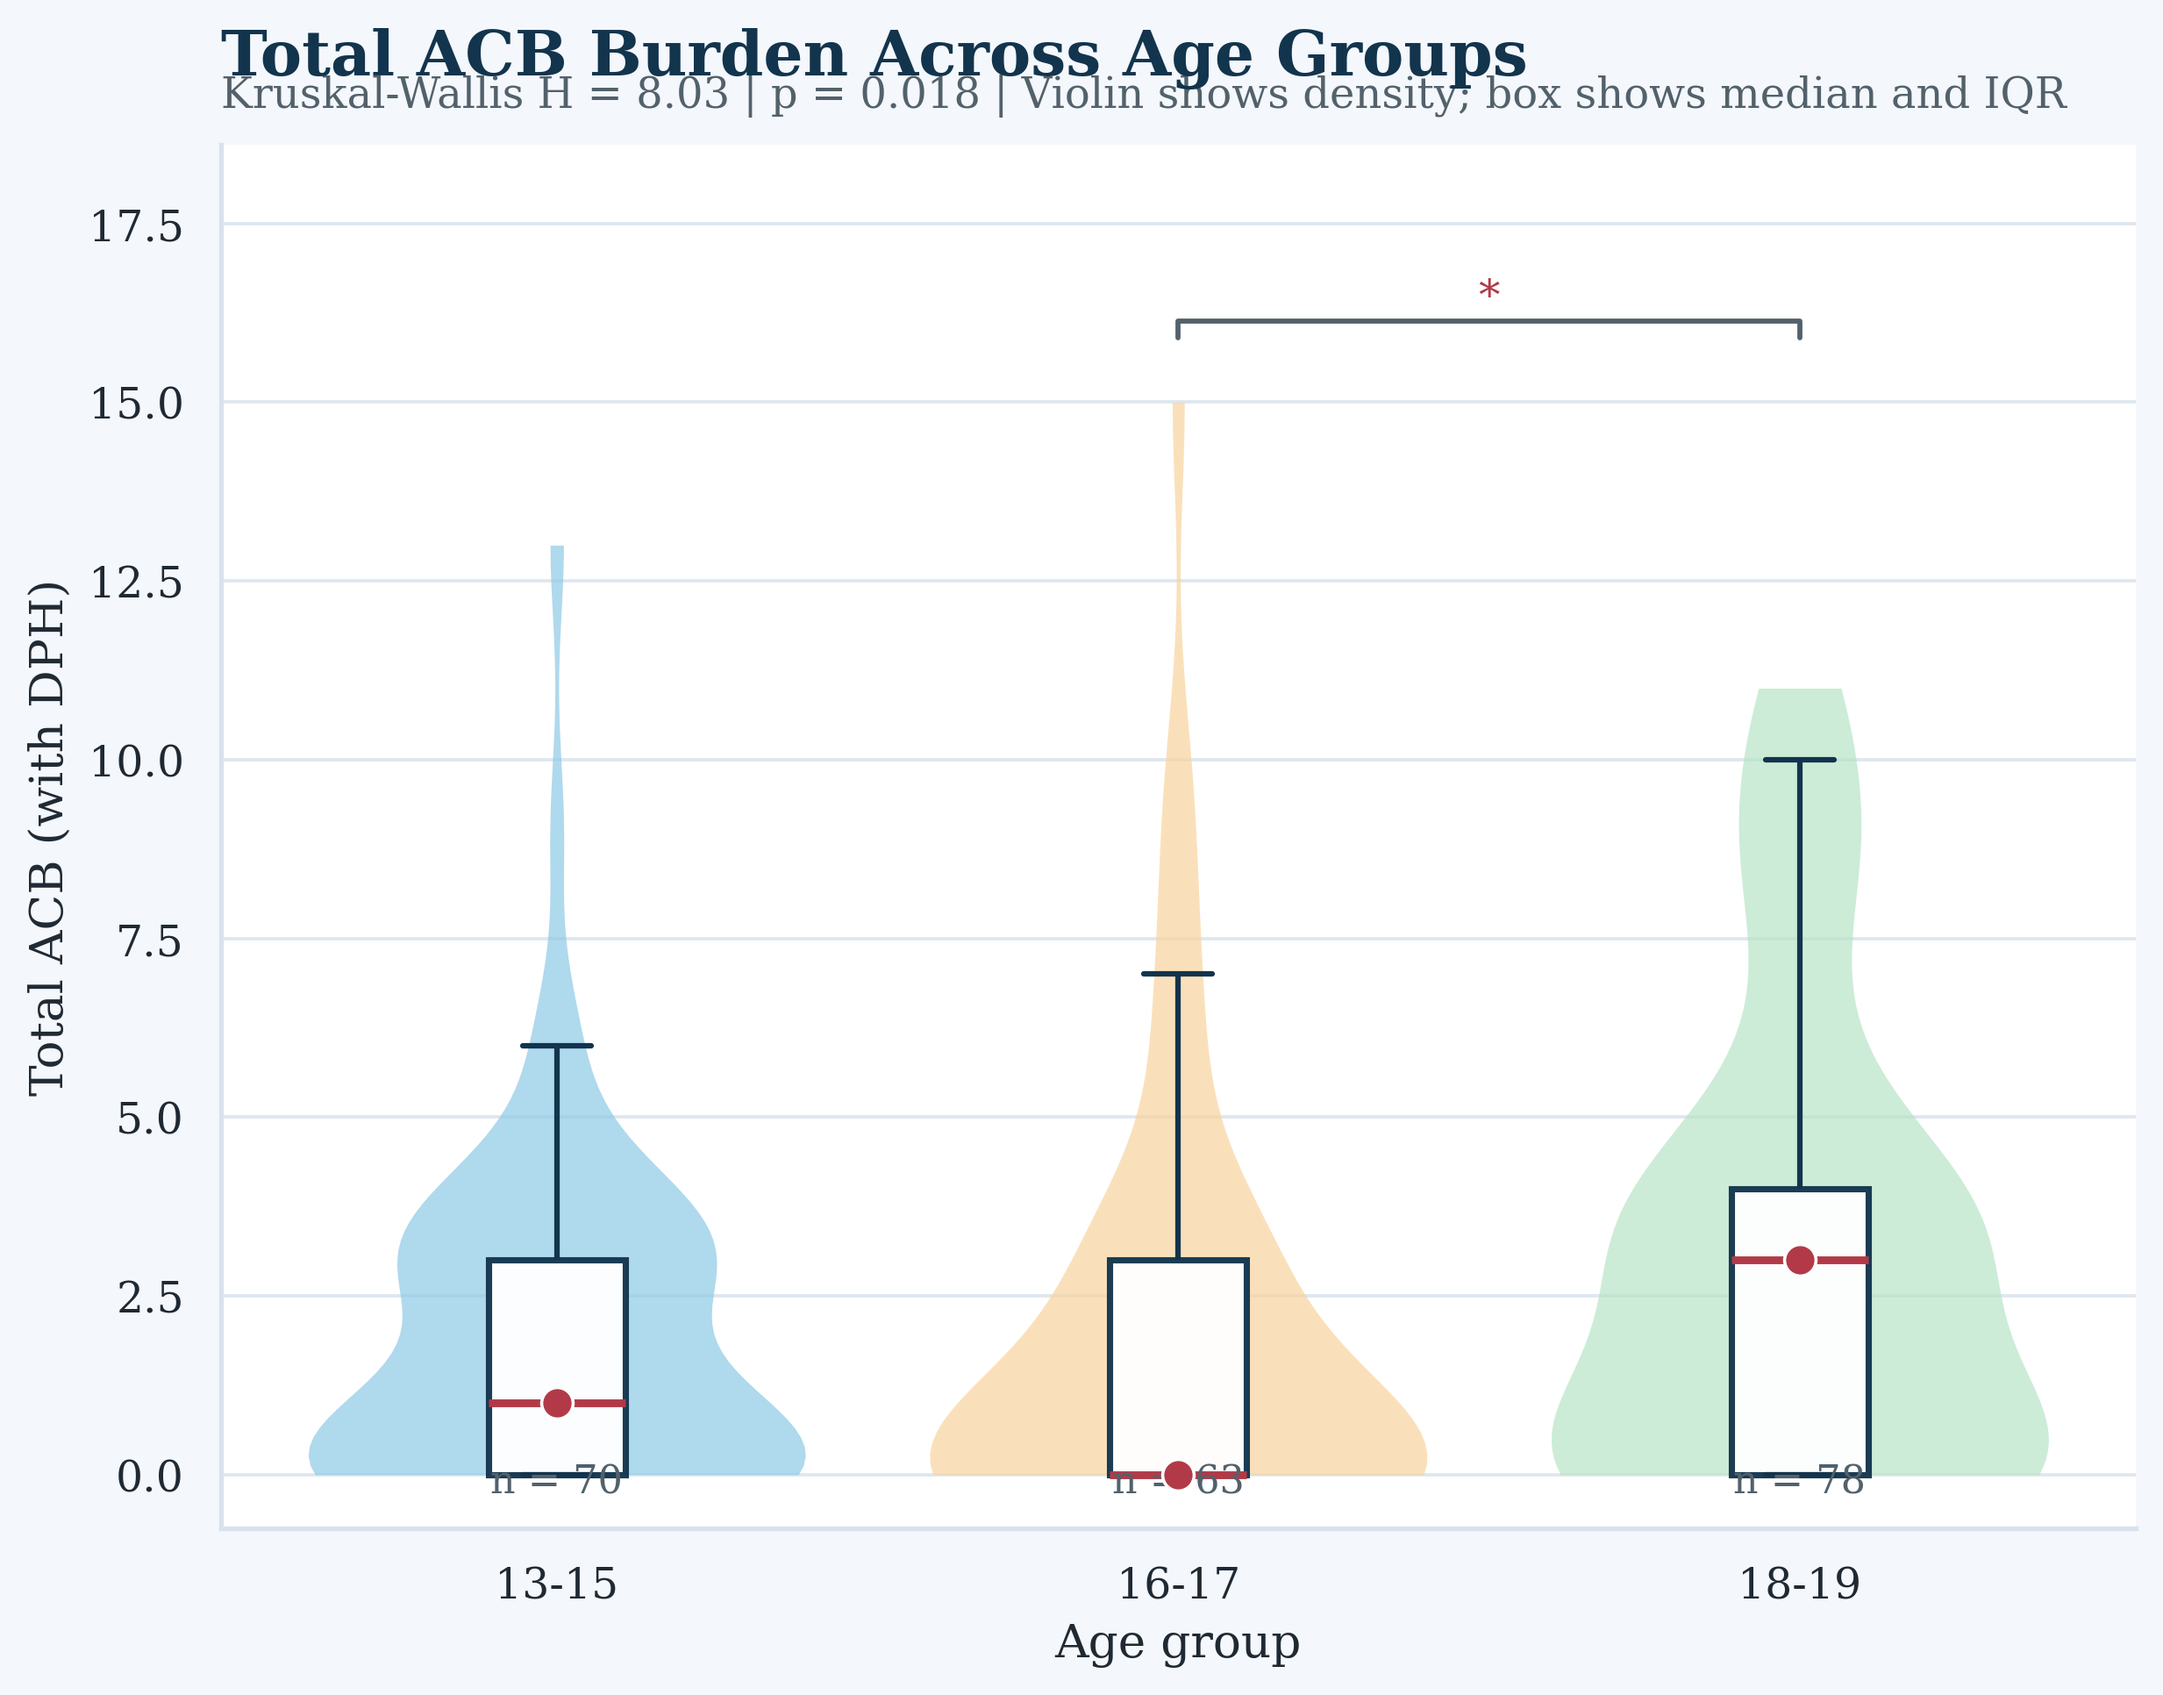
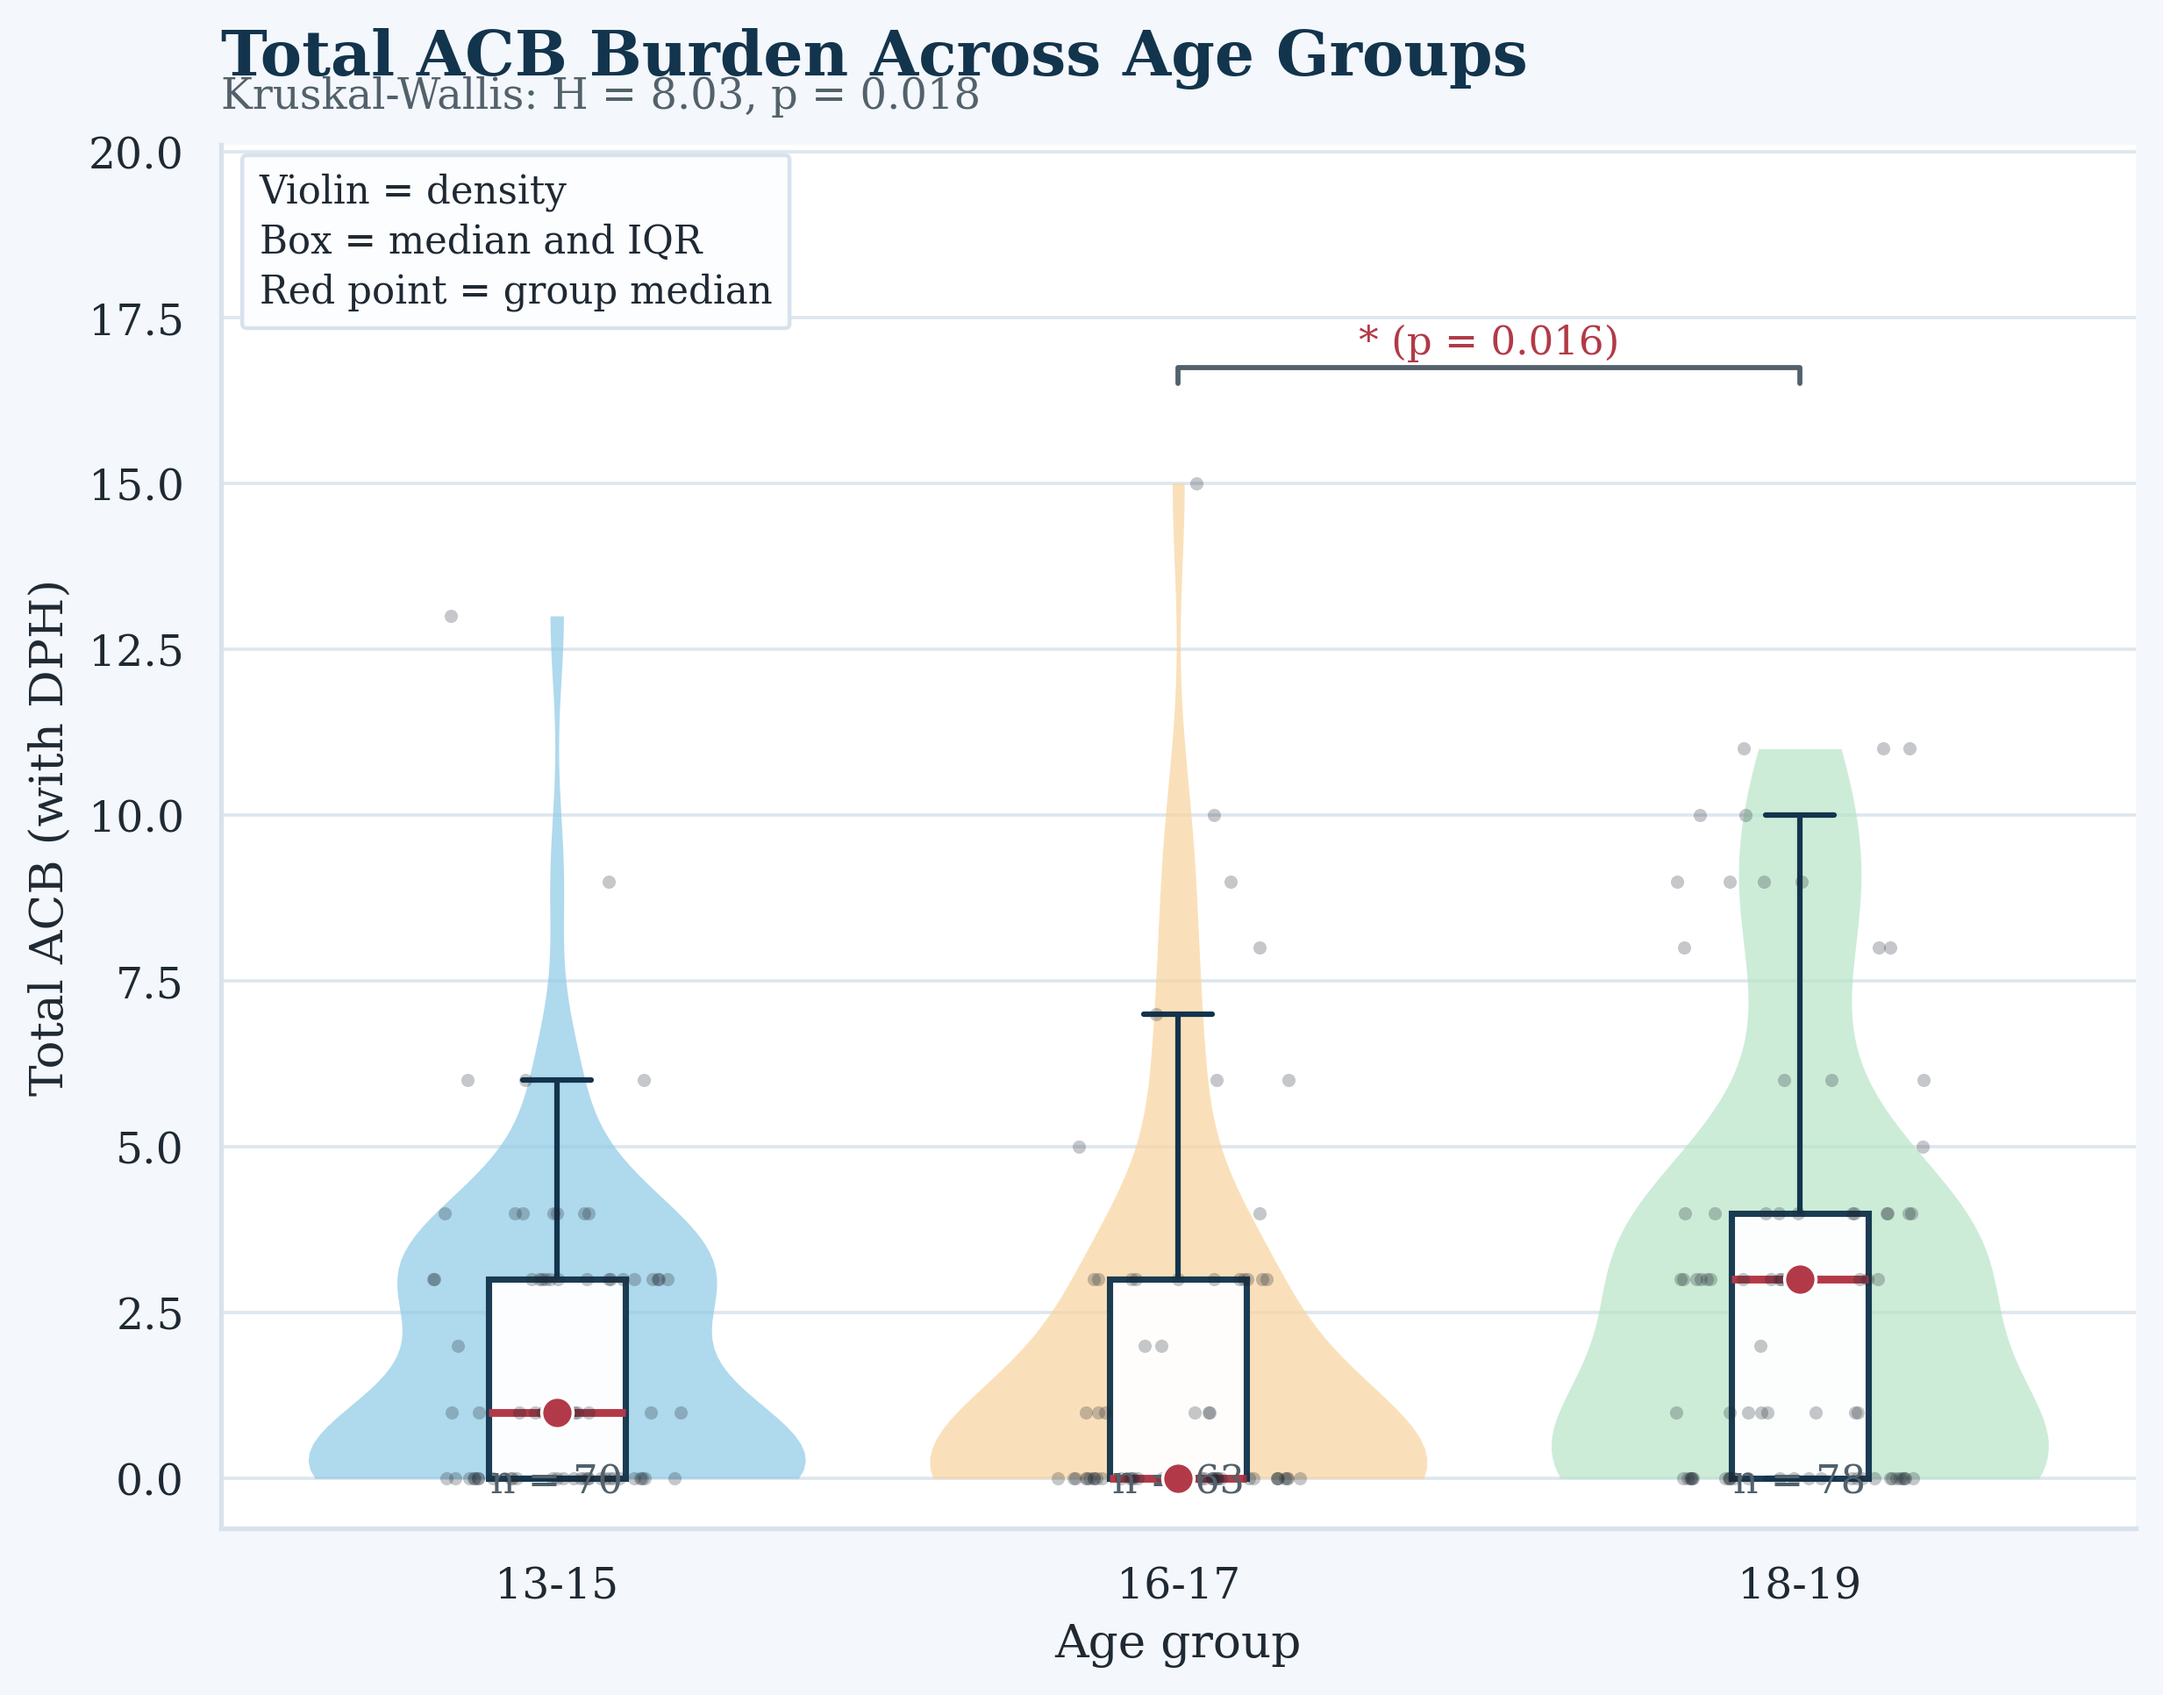
Revert "improve figure clarity"
This reverts commit c1bd58c76f2f652e4dd68df12dfe45d77ca5d389.

diff --git a/06_analysis/build_analysis_outputs.py b/06_analysis/build_analysis_outputs.py
@@ -165,18 +165,6 @@ def add_title_block(ax, title: str, subtitle: str = "") -> None:
         )
 
 
-def concise_distribution_subtitle(series: pd.Series, stat: float, p: float) -> str:
-    return " | ".join(
-        [
-            f"n = {len(series):,}",
-            f"mean = {series.mean():.2f}",
-            f"median = {series.median():.2f}",
-            f"W = {stat:.3f}" if pd.notna(stat) else "W = NA",
-            format_p_value(p),
-        ]
-    )
-
-
 def add_badge(
     ax,
     text: str,
@@ -327,21 +315,35 @@ def normality_checks(df: pd.DataFrame) -> pd.DataFrame:
         )
         ax.axvline(s.mean(), color=PALETTE["navy"], linewidth=2.2, linestyle="-", label="Mean")
         ax.axvline(s.median(), color=PALETTE["orange"], linewidth=2.2, linestyle="--", label="Median")
-        add_title_block(ax, f"Distribution of {pretty_label(col)}", concise_distribution_subtitle(s, stat, p))
+        add_title_block(ax, f"Distribution of {pretty_label(col)}", "Histogram with kernel density estimate and central tendency markers")
         style_axes(ax, grid_axis="y")
         ax.set_xlabel(pretty_label(col))
         ax.set_ylabel("Case count")
-        ax.legend(loc="upper right")
+        ax.legend(loc="upper left")
+        add_badge(
+            ax,
+            "\n".join(
+                [
+                    f"n = {len(s):,}",
+                    f"mean = {s.mean():.2f}",
+                    f"median = {s.median():.2f}",
+                    f"Shapiro W = {stat:.3f}" if pd.notna(stat) else "Shapiro W = NA",
+                    format_p_value(p),
+                ]
+            ),
+            facecolor="#fbfdff",
+        )
         save_figure(fig, FIG_DIR / HISTOGRAM_NAMES[col])
 
         fig, ax = plt.subplots(figsize=(6.6, 6.2), facecolor=PALETTE["bg"])
         (theoretical, ordered), (slope, intercept, r_value) = stats.probplot(s, dist="norm")
         ax.scatter(theoretical, ordered, s=38, color=color, alpha=0.85, edgecolors="white", linewidths=0.55)
         ax.plot(theoretical, slope * np.asarray(theoretical) + intercept, color=PALETTE["navy"], linewidth=2.2)
-        add_title_block(ax, f"Q-Q Plot for {pretty_label(col)}", f"Reference-line correlation = {r_value:.3f} | {format_p_value(p)}")
+        add_title_block(ax, f"Q-Q Plot for {pretty_label(col)}", "Departure from the reference line indicates non-normality")
         style_axes(ax, grid_axis="both")
         ax.set_xlabel("Theoretical quantiles")
         ax.set_ylabel("Observed quantiles")
+        add_badge(ax, f"Correlation = {r_value:.3f}\n{format_p_value(p)}", facecolor="#fbfdff")
         save_figure(fig, FIG_DIR / QQ_NAMES[col])
 
     out = pd.DataFrame(rows)
@@ -396,10 +398,21 @@ def analysis_a_b_c(df: pd.DataFrame) -> pd.DataFrame:
         medianprops={"color": PALETTE["red"], "linewidth": 2.0},
         ax=ax,
     )
+    sns.stripplot(
+        data=plot_df,
+        x="age_group",
+        y="total_acb_with_dph",
+        order=order,
+        color=PALETTE["ink"],
+        alpha=0.26,
+        size=3.4,
+        jitter=0.2,
+        ax=ax,
+    )
     ymax = np.nanmax(plot_df["total_acb_with_dph"]) if plot_df["total_acb_with_dph"].notna().any() else 1
     ymin = np.nanmin(plot_df["total_acb_with_dph"]) if plot_df["total_acb_with_dph"].notna().any() else 0
     lower = min(0, ymin - max(0.25, 0.05 * max(ymax, 1)))
-    ax.set_ylim(lower, ymax * 1.24 if ymax > 0 else 1.5)
+    ax.set_ylim(lower, ymax * 1.34 if ymax > 0 else 1.5)
 
     summary = plot_df.groupby("age_group")["total_acb_with_dph"].agg(["median", "count"]).reindex(order)
     for idx, row in enumerate(summary.itertuples()):
@@ -407,20 +420,21 @@ def analysis_a_b_c(df: pd.DataFrame) -> pd.DataFrame:
         ax.text(idx, lower + 0.02 * (ax.get_ylim()[1] - lower), f"n = {int(row.count)}", ha="center", va="bottom", fontsize=10, color=PALETTE["slate"])
 
     level_map = {lvl: idx for idx, lvl in enumerate(order)}
-    pair_y = ymax * 1.06 if ymax > 0 else 1
+    pair_y = ymax * 1.10 if ymax > 0 else 1
     for i, a in enumerate(order):
         for b in order[i + 1 :]:
             pval = dunn_df.loc[a, b] if a in dunn_df.index and b in dunn_df.columns else np.nan
             if pd.notna(pval) and pval < 0.05:
                 xa, xb = level_map[a], level_map[b]
                 ax.plot([xa, xa, xb, xb], [pair_y, pair_y * 1.015, pair_y * 1.015, pair_y], color=PALETTE["slate"], lw=1.3)
-                ax.text((xa + xb) / 2, pair_y * 1.018, p_stars(float(pval)), ha="center", va="bottom", color=PALETTE["red"], fontsize=11)
+                ax.text((xa + xb) / 2, pair_y * 1.02, f"{p_stars(float(pval))} ({format_p_value(float(pval))})", ha="center", va="bottom", color=PALETTE["red"], fontsize=10.2)
                 pair_y *= 1.06
 
-    add_title_block(ax, "Total ACB Burden Across Age Groups", f"Kruskal-Wallis H = {k_stat:.2f} | {format_p_value(p_kw)} | Violin shows density; box shows median and IQR")
+    add_title_block(ax, "Total ACB Burden Across Age Groups", f"Kruskal-Wallis: H = {k_stat:.2f}, {format_p_value(p_kw)}")
     style_axes(ax, grid_axis="y")
     ax.set_xlabel("Age group")
     ax.set_ylabel("Total ACB (with DPH)")
+    add_badge(ax, "Violin = density\nBox = median and IQR\nRed point = group median", x=0.02, ha="left", facecolor="#fbfdff")
     save_figure(fig, FIG_DIR / FILE_NAMES["figure_age_group"])
 
     rho, p_sp = spearmanr(df["total_acb_codrugs_only"], df["max_severity"], nan_policy="omit")
@@ -429,15 +443,18 @@ def analysis_a_b_c(df: pd.DataFrame) -> pd.DataFrame:
     fig, ax = plt.subplots(figsize=(8.4, 6.1), facecolor=PALETTE["bg"])
     severity_df = df[["total_acb_codrugs_only", "max_severity", "cardiac_any"]].dropna().copy()
     severity_df["severity_jittered"] = severity_df["max_severity"] + RNG.normal(0, 0.05, size=len(severity_df))
-    ax.scatter(
-        severity_df["total_acb_codrugs_only"],
-        severity_df["severity_jittered"],
-        s=30,
-        alpha=0.34,
-        color=PALETTE["teal"],
-        edgecolors="white",
-        linewidths=0.4,
-    )
+    for cardiac_value, label in CARDIAC_LABELS.items():
+        subset = severity_df[severity_df["cardiac_any"] == cardiac_value]
+        ax.scatter(
+            subset["total_acb_codrugs_only"],
+            subset["severity_jittered"],
+            s=34,
+            alpha=0.45,
+            color=CARDIAC_COLORS[cardiac_value],
+            edgecolors="white",
+            linewidths=0.45,
+            label=label,
+        )
     sns.regplot(
         data=severity_df,
         x="total_acb_codrugs_only",
@@ -447,11 +464,23 @@ def analysis_a_b_c(df: pd.DataFrame) -> pd.DataFrame:
         line_kws={"color": PALETTE["navy"], "lw": 2.8},
         ax=ax,
     )
-    add_title_block(ax, "ACB Burden Versus Maximum Case Severity", f"Spearman rho = {rho:.2f} | {format_p_value(p_sp)} | Points are lightly jittered vertically to reduce overlap")
+    add_title_block(ax, "ACB Burden Versus Maximum Case Severity", f"Spearman correlation: rho = {rho:.2f}, {format_p_value(p_sp)}")
     style_axes(ax, grid_axis="both")
     ax.set_xlabel("Total ACB (co-drugs only)")
     ax.set_ylabel("Max severity")
     ax.set_yticks(sorted(severity_df["max_severity"].dropna().unique()))
+    ax.legend(loc="upper left", title="Outcome subgroup")
+    add_badge(
+        ax,
+        "\n".join(
+            [
+                f"n = {len(severity_df):,}",
+                f"Median ACB = {severity_df['total_acb_codrugs_only'].median():.2f}",
+                f"Median severity = {severity_df['max_severity'].median():.2f}",
+            ]
+        ),
+        facecolor="#fbfdff",
+    )
     save_figure(fig, FIG_DIR / FILE_NAMES["figure_severity"])
 
     out = pd.DataFrame(rows)
@@ -558,6 +587,7 @@ def logistic_and_forest(df: pd.DataFrame) -> pd.DataFrame:
     text_x = ax.get_xlim()[1] / 1.02
     for yi, value in enumerate(value_text):
         ax.text(text_x, yi, value, ha="right", va="center", fontsize=10, color=PALETTE["ink"])
+    add_badge(ax, "Teal = p < 0.05\nDashed line = null effect", x=0.02, ha="left", facecolor="#fbfdff")
     fig.subplots_adjust(left=0.29, right=0.97, top=0.88, bottom=0.13)
     save_figure(fig, FIG_DIR / FILE_NAMES["figure_forest"])
 
@@ -575,8 +605,19 @@ def logistic_and_forest(df: pd.DataFrame) -> pd.DataFrame:
     style_axes(ax, grid_axis="both")
     ax.set_xlabel("False Positive Rate")
     ax.set_ylabel("True Positive Rate")
-    add_title_block(ax, "ROC Curve for the Cardiac Risk Model", f"AUC = {auc:.3f} | Best sensitivity = {tpr[youden_idx]:.2f} | Best specificity = {1 - fpr[youden_idx]:.2f}")
+    add_title_block(ax, "ROC Curve for the Cardiac Risk Model", "Receiver operating characteristic with highlighted best tradeoff point")
     ax.legend(loc="lower right")
+    add_badge(
+        ax,
+        "\n".join(
+            [
+                f"Best sensitivity = {tpr[youden_idx]:.2f}",
+                f"Best specificity = {1 - fpr[youden_idx]:.2f}",
+                f"AUC = {auc:.3f}",
+            ]
+        ),
+        facecolor="#fbfdff",
+    )
     save_figure(fig, FIG_DIR / FILE_NAMES["figure_roc"])
 
     pd.DataFrame(fit_rows).to_csv(TAB_DIR / FILE_NAMES["table_fit"], index=False)
